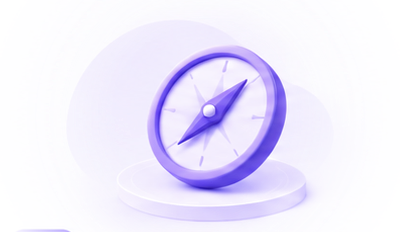
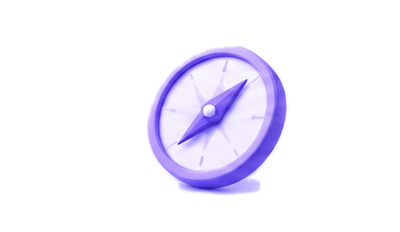
Donkere modus zonder gloed
In het donker geen gloed, halo's of gekleurde schaduwen meer: geen box- en
tekstschaduwen, geen lichtvlekken, gloeiende punten of wazige achtergronden,
en productbeelden met alleen het voorwerp. Het lichte thema blijft gelijk.

diff --git a/app/globals.css b/app/globals.css
@@ -3600,3 +3600,64 @@ a:hover {
     background: linear-gradient(180deg, rgba(255, 255, 255, .14) 0%, rgba(255, 255, 255, 0) 100%);
 }
 
+
+/* ---------- Donker thema: geen gloed ----------
+   In het donker geen gloed, halo's of gekleurde schaduwen; in het lichte thema blijven ze zoals ze zijn.
+   De productbeelden hebben eigen donkere versies met alleen het voorwerp, zonder waas en sokkel
+   (public/assets/prod/*-dark.png); het API-label hoort bij de weggelaten kaart van Connect. */
+:root[data-theme='dark'] *,
+:root[data-theme='dark'] *::before,
+:root[data-theme='dark'] *::after {
+    box-shadow: none !important;
+    text-shadow: none !important;
+}
+
+:root[data-theme='dark'] .licht,
+:root[data-theme='dark'] .licht:hover,
+:root[data-theme='dark'] .licht-text,
+:root[data-theme='dark'] .hv-glass:hover {
+    filter: none !important;
+}
+
+:root[data-theme='dark'] .licht-glow,
+:root[data-theme='dark'] .hdr-accent,
+:root[data-theme='dark'] .product-api,
+:root[data-theme='dark'] .product-btn-glow,
+:root[data-theme='dark'] .wwd-blob,
+:root[data-theme='dark'] .wwd-pulse-glow,
+:root[data-theme='dark'] .wwd-node-glow,
+:root[data-theme='dark'] .wave-glow,
+:root[data-theme='dark'] .wave-ribbon,
+:root[data-theme='dark'] .wave-divider-glow,
+:root[data-theme='dark'] .res-blob,
+:root[data-theme='dark'] .ft-demo-cloud,
+:root[data-theme='dark'] .hero-scene [style*='background:radial-gradient'] {
+    display: none;
+}
+
+/* De glazen bollen in de hero: alleen de bol, zonder de lichte rand eromheen. */
+:root[data-theme='dark'] .hv-glass > div {
+    -webkit-mask-image: radial-gradient(closest-side, #000 64%, transparent 70%) !important;
+    mask-image: radial-gradient(closest-side, #000 64%, transparent 70%) !important;
+}
+
+/* Effen achtergronden in plaats van zachte lichtvlekken. */
+:root[data-theme='dark'] .hero-stage {
+    background: var(--d-page-2);
+}
+
+:root[data-theme='dark'] .products {
+    background: linear-gradient(180deg, rgb(var(--d-glass) / 0) 55%, var(--d-page) 100%), var(--d-tint-1);
+}
+
+@media (max-width: 1099px) {
+    :root[data-theme='dark'] .hero {
+        background: var(--d-page-2);
+    }
+
+    :root[data-theme='dark'] .wwd,
+    :root[data-theme='dark'] .res,
+    :root[data-theme='dark'] .ft {
+        background: var(--d-page);
+    }
+}

diff --git a/components/Results.tsx b/components/Results.tsx
@@ -21,7 +21,7 @@ function IconCircle({ left, top, bg, shadow, children }: { left: number; top: nu
 }
 
 function Blob({ left, top, width, height, color }: { left: number; top: number; width: number; height: number; color: string }) {
-  return <div style={box(left, top, width, height, { borderRadius: "50%", background: `radial-gradient(closest-side, ${color} 0%, ${color}99 60%, ${color}00 100%)` })} />;
+  return <div className="res-blob" style={box(left, top, width, height, { borderRadius: "50%", background: `radial-gradient(closest-side, ${color} 0%, ${color}99 60%, ${color}00 100%)` })} />;
 }
 
 // Lines: op desktop elk een eigen regel, op mobiel lopen ze door.
